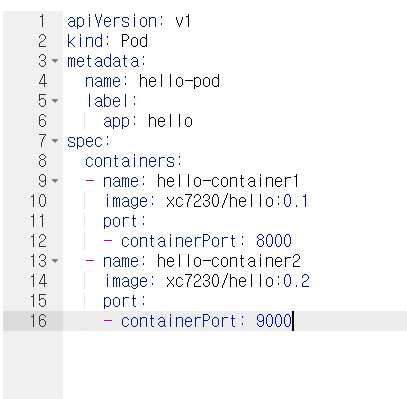
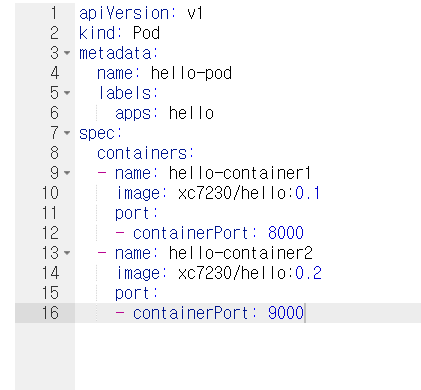
2022.10.14

diff --git a/Kubernetes.md b/Kubernetes.md
@@ -346,7 +346,7 @@ kind: Pod
 metadata:
   name: hello-pod
   labels:
-    app: hello
+    apps: hello
 spec:
   containers:
   - name: hello-container1
@@ -363,4 +363,165 @@ spec:
 ![image](./image/kubernetes/20.png)<br/>
 ![image](./image/kubernetes/21.png)<br/>
 
+- 컨테이너 확인<br/>
+![image](./image/kubernetes/22.png)<br/>
+컨테이너의 콘솔로 진입<br/>
 
+```shell
+apt update
+apt install -y curl
+curl localhost:8000
+curl localhost:9000
+```
+![image](./image/kubernetes/23.png)<br/>
+
+## 레이블
+- 파드에 레이블 달기<br/>
+```yaml
+apiVersion: v1
+kind: Pod
+metadata:
+  name: pod-1-1
+  labels:
+    type: web
+    lo: dev
+spec:
+  containers:
+  - name: hello-container2
+    image: xc7230/hello:0.2
+    port:
+    - containerPort: 9000
+```
+레이블만 바꿔서 만들어 보기<br/>
+```
+type: web
+lo: dev
+
+type: db
+lo: dev
+
+type: web
+lo: test
+
+type: db
+lo: test
+```
+![image](./image/kubernetes/24.png)<br/>
+
+- 만들어진 파드 서비스 하기<br/>
+```yaml
+apiVersion: v1
+kind: Service
+metadata:
+  name: svc-1
+spec:
+  selector:
+    type: web
+  ports:
+  - port: 8000
+```
+![image](./image/kubernetes/25.png)<br/>
+
+- 확인<br/>
+![image](./image/kubernetes/26.png)<br/>
+![image](./image/kubernetes/27.png)<br/>
+
+## 노드 스케줄러
+원하는 노드에 파드를 만들 수 있다.<br/>
+```yaml
+apiVersion: v1
+kind: Pod
+metadata:
+  name: pod-3-1
+spec:
+  nodeSelector:
+    kubernetes.io/hostname: node1
+  containers:
+  - name: container
+    image: xc7230/hello:0.2
+```
+![image](./image/kubernetes/28.png)<br/>
+하나의 노드를 지정해서 계속 파드를 생성하며 부하를 주면 작동이 멈춘다.<br/>
+
+## QoS(Quality of Service)
+![image](./image/kubernetes/29.png)<br/>
+파드의 사양을 설정 할 수 있다.<br/>
+
+- 콘솔에서 확인 방법<br/>
+```shell
+ kubectl describe Pod pod-3-1 | grep QoS  # pod 이름
+```
+![image](./image/kubernetes/30.png)<br/>
+
+1. BestEffort : resources 항목을 아예 사용하지 않을 경우 BestEffort로 분류
+```yaml
+apiVersion: v1
+kind: Pod
+metadata:
+  name: nginx-besteffort-pod
+spec:
+  containers:
+  - name: nginx-besteffort-pod
+    image: nginx:latest
+```
+![image](./image/kubernetes/31.png)<br/>
+- 부하주기
+```shell
+apt update
+apt install -y stress
+stress --vm 4 --vm-bytes 1024M  # 과부화가 되면 꺼진다.
+```
+
+
+
+2. Guaranteed : resources 항목에서 limits와 request의 값이 완전히 동일한 경우 Guaranteed로 분류
+```yaml
+apiVersion: v1
+kind: Pod
+metadata:
+  name: nginx-guaranteed-pod
+spec:
+  containers:
+  - name: nginx-guaranteed-pod
+    image: nginx:latest
+    resources:
+      limits:
+        memory: "256Mi"
+        cpu: "1000m"
+      requests:
+        memory: "256Mi"
+        cpu: "1000m"
+```
+![image](./image/kubernetes/32.png)<br/>
+- 부하주기
+```shell
+apt update
+apt install -y stress
+stress --vm 1 --vm-bytes 256M   #256M 이상을 주면 꺼진다.
+```
+
+3. Burstable : resources 항목에서 limits가 requests보다 클 경우 Burstable로 분류
+```yaml
+apiVersion: v1
+kind: Pod
+metadata:
+  name: nginx-burstable-pod
+spec:
+  containers:
+  - name: nginx-burstable-pod
+    image: nginx:latest
+    resources:
+      limits:
+        memory: "1024Mi"
+        cpu: "1000m"
+      requests:
+        memory: "256Mi"
+        cpu: "500m"
+```
+![image](./image/kubernetes/33.png)<br/>
+- 부하주기
+```shell
+apt update
+apt install -y stress
+stress --vm 2 --vm-bytes 512M  #1024M 이상을 주면 꺼진다.
+```
